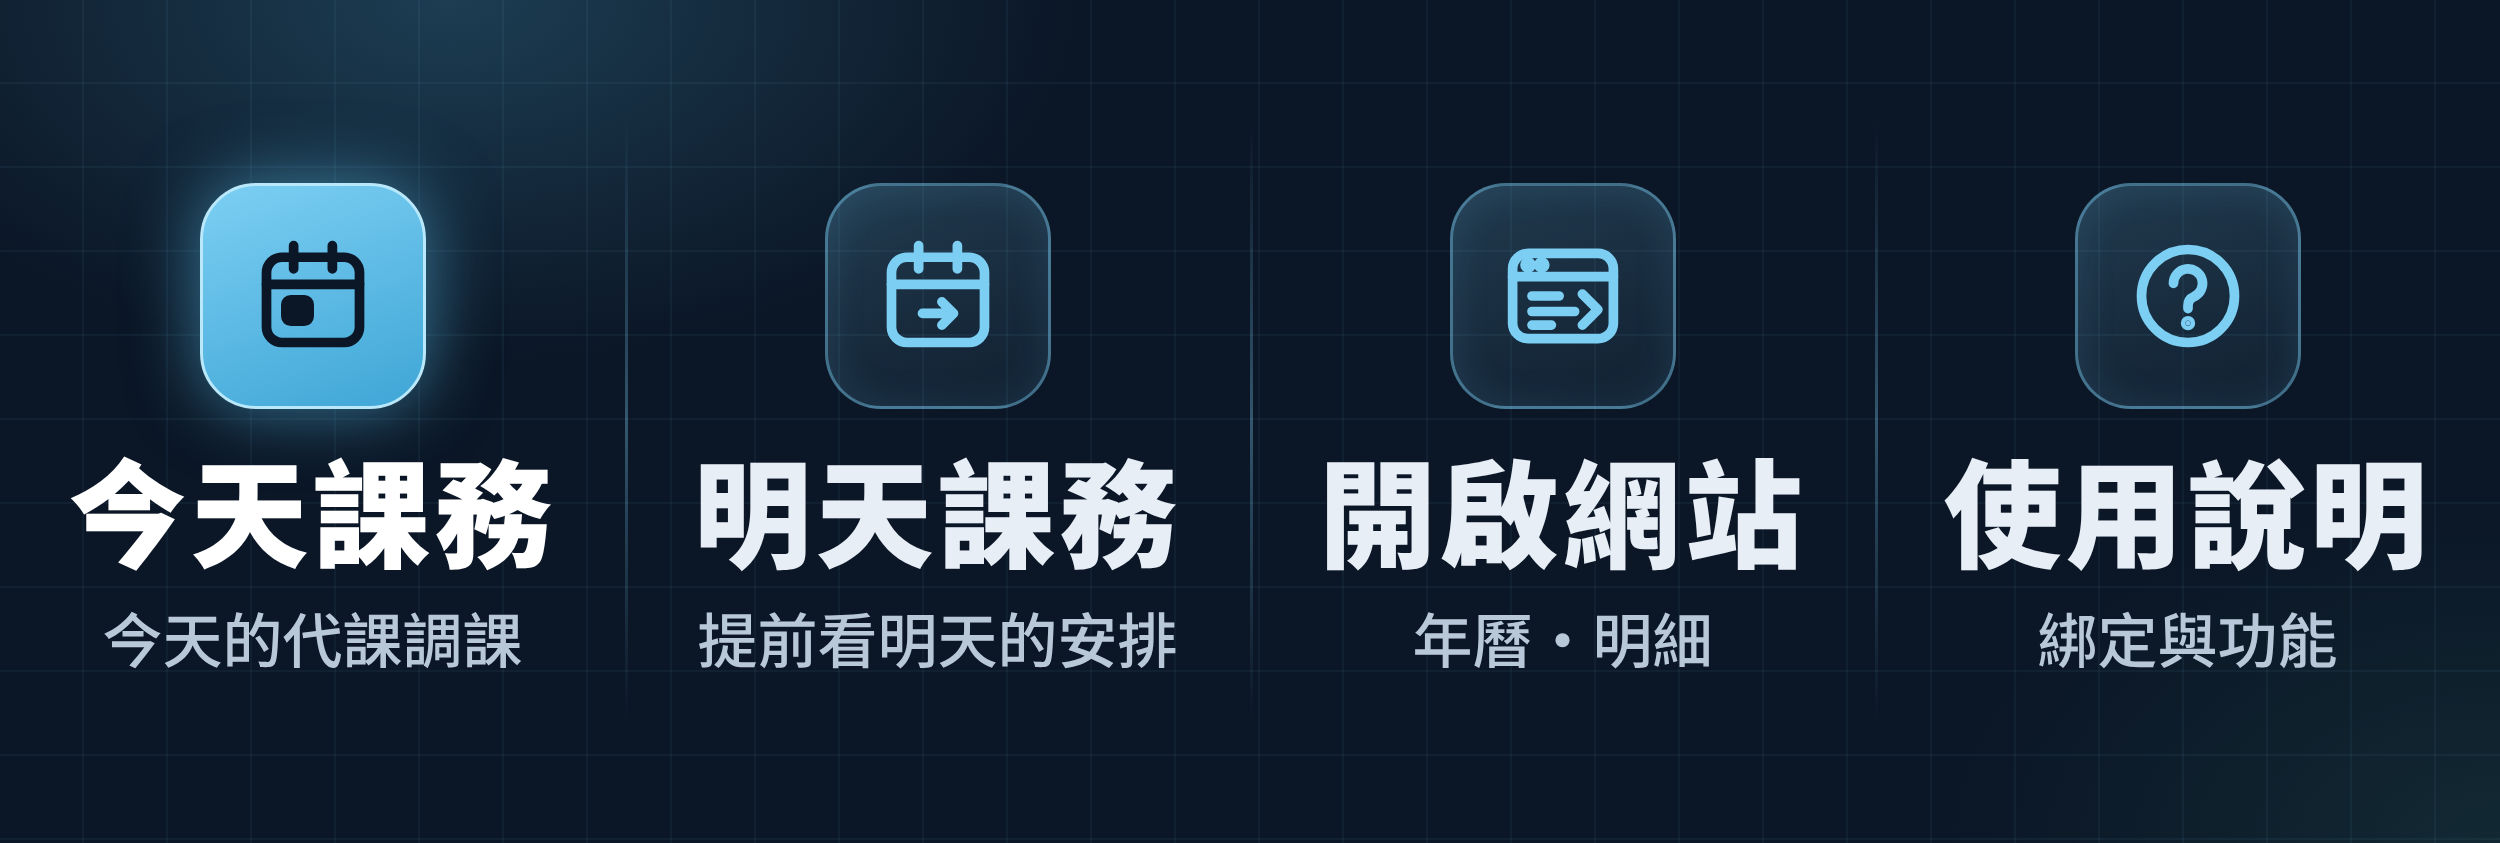
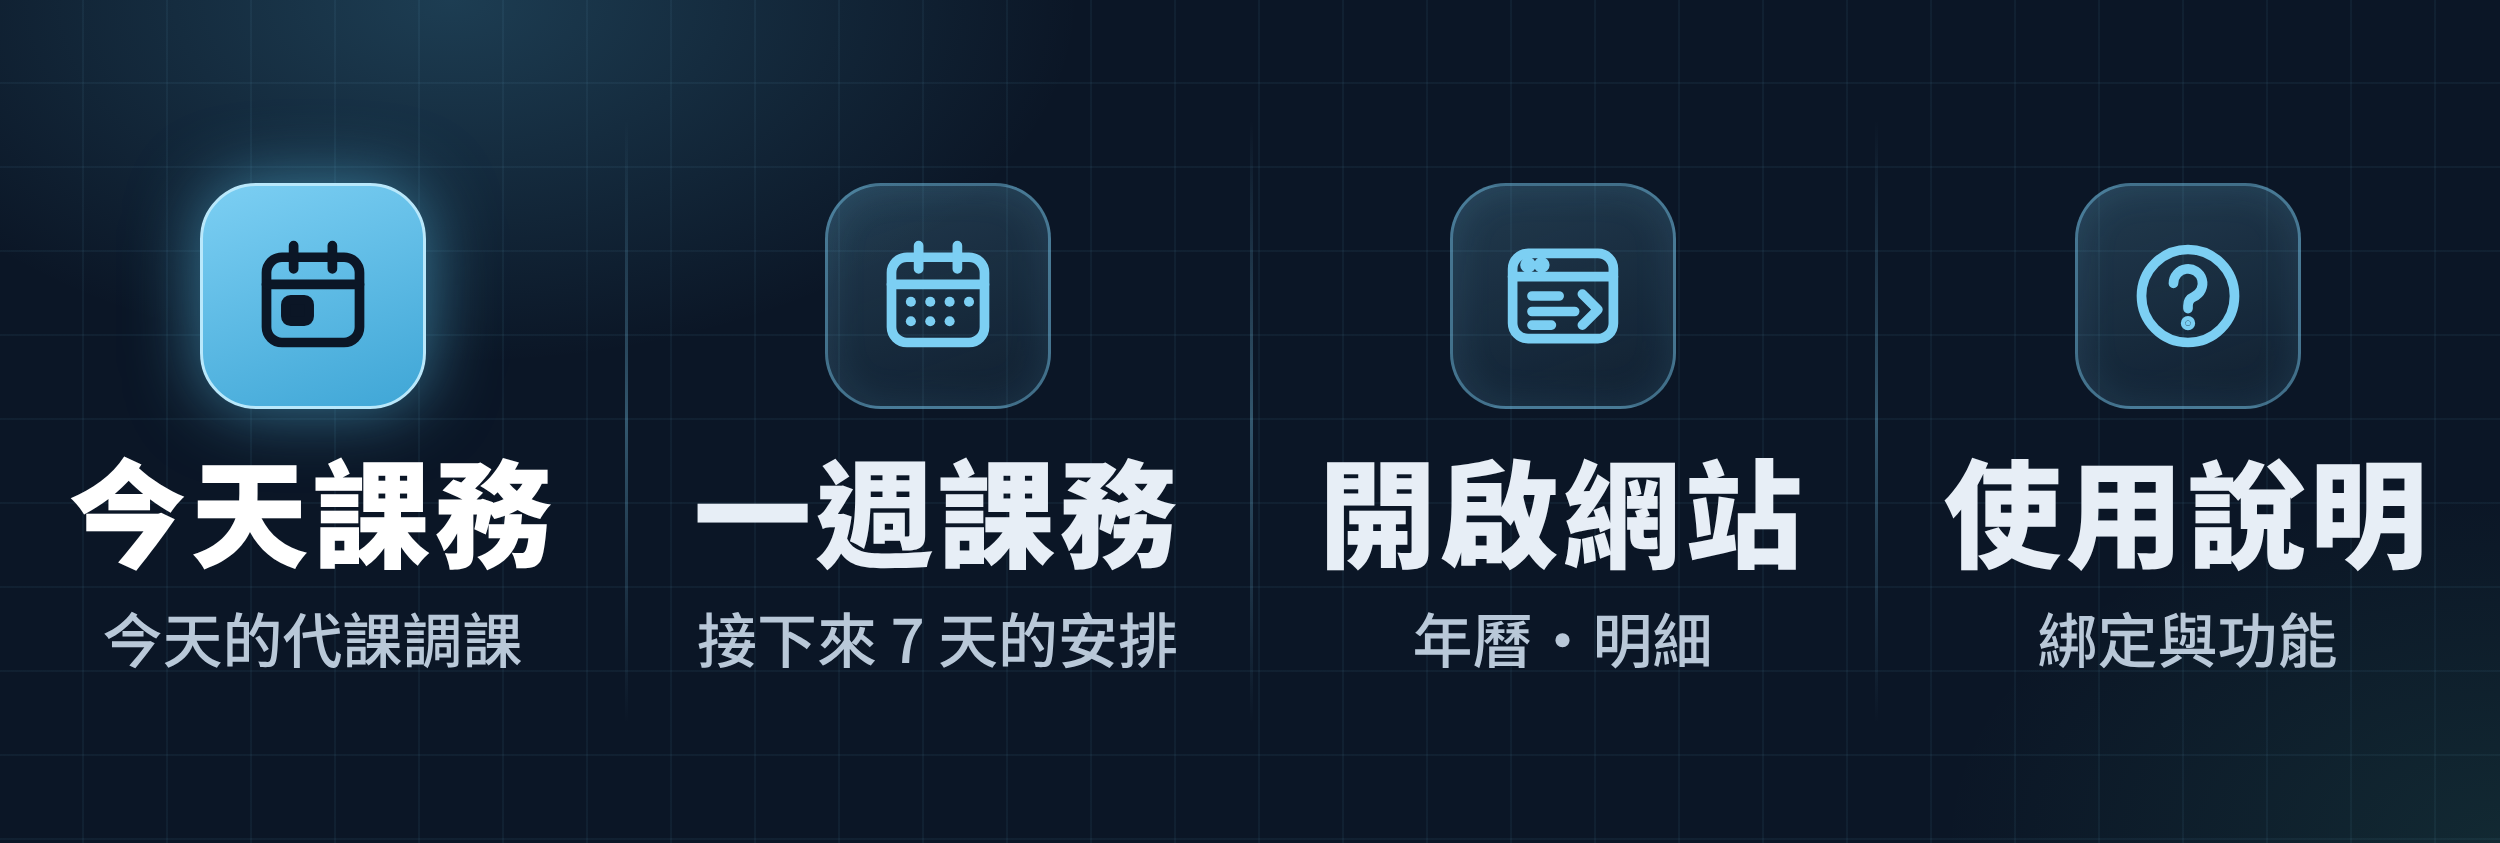
daike-calendar: 圖文選單改「一週課務」；綁定視窗輪詢放慢
Claude-Session: https://claude.ai/code/session_01DikehUjZNL3PWbKn92W9xa

diff --git a/daike-calendar/index.html b/daike-calendar/index.html
@@ -1128,7 +1128,7 @@ async function lineGetCode(){
     lineUI.timer = setInterval(async ()=>{
       if($("#lineModal").hidden || Date.now() > lineUI.until){ lineStop(); renderLine(); return; }
       renderLine();                                   // 倒數
-      if(++n % 4) return;                             // 每 4 秒問一次有沒有綁定成功
+      if(++n % (n <= 120 ? 4 : 10)) return;           // 前 2 分鐘每 4 秒問一次有沒有綁定成功，之後每 10 秒（少打擾伺服器）
       try{ const s = await apiPost({action:"lineStatus", name:state.cred.name, h:state.cred.h});
         if(s.ok && s.line && s.line.bound){ state.line = s.line; lineUI.list = s.list || lineUI.list; lineStop(); lineUI.code="";
           renderLine(); $("#lineNotice").hidden = true; toast("LINE 綁定成功！"); } }catch(e){}
